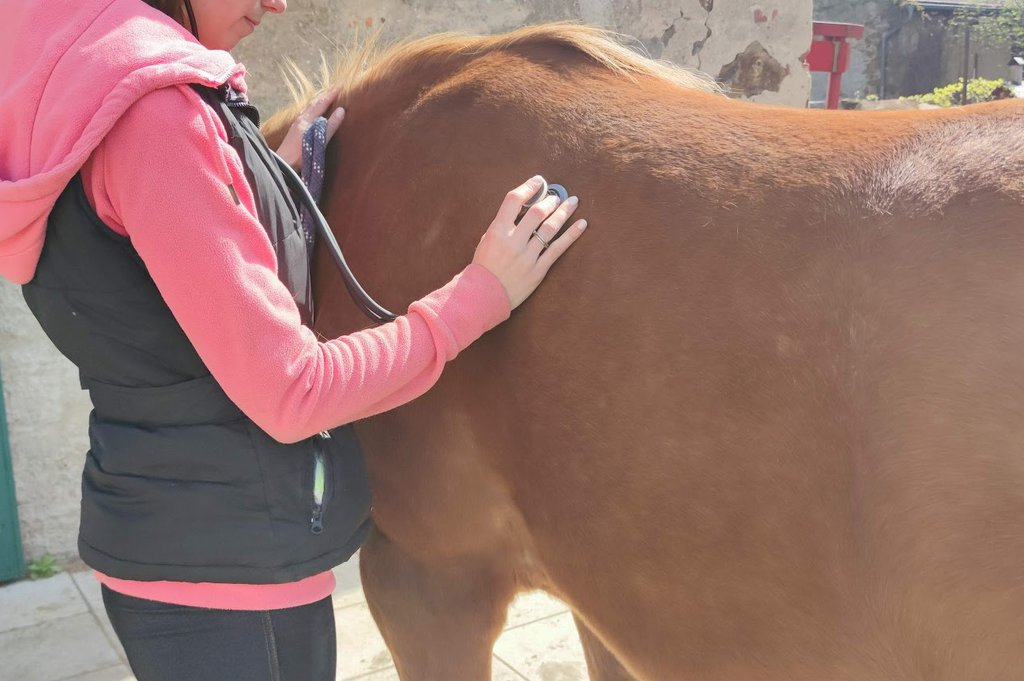
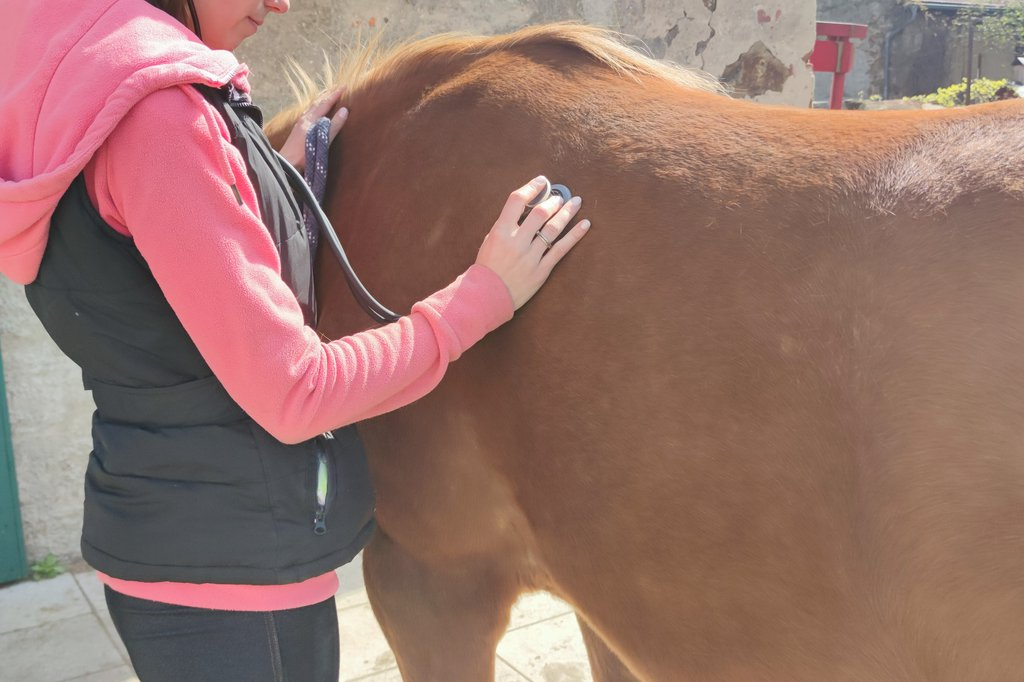
smaller images

diff --git a/templates/behandlung.html b/templates/behandlung.html
@@ -5,7 +5,7 @@
 {% endblock description %}
 {% block header %}
 <!-- Page Header -->
-<header class="masthead" style="background-image: url('{{ get_url(path="/img/behandlung_1_1920.jpeg")}}')">
+<header class="masthead" style="background-image: url('{{ get_url(path="/img/behandlung_2_1024.jpeg")}}')">
   <div class="overlay">
   </div>
   <div class="container">

diff --git a/templates/vorgehen.html b/templates/vorgehen.html
@@ -7,7 +7,7 @@
 
 {% block header %}
 <!-- Page Header -->
-<header class="masthead" style="background-image: url('{{ get_url(path="/img/vorgehen_1920.jpeg")}}')">
+<header class="masthead" style="background-image: url('{{ get_url(path="/img/vorgehen_1024.jpeg")}}')">
   <div class="overlay">
   </div>
   <div class="container">
